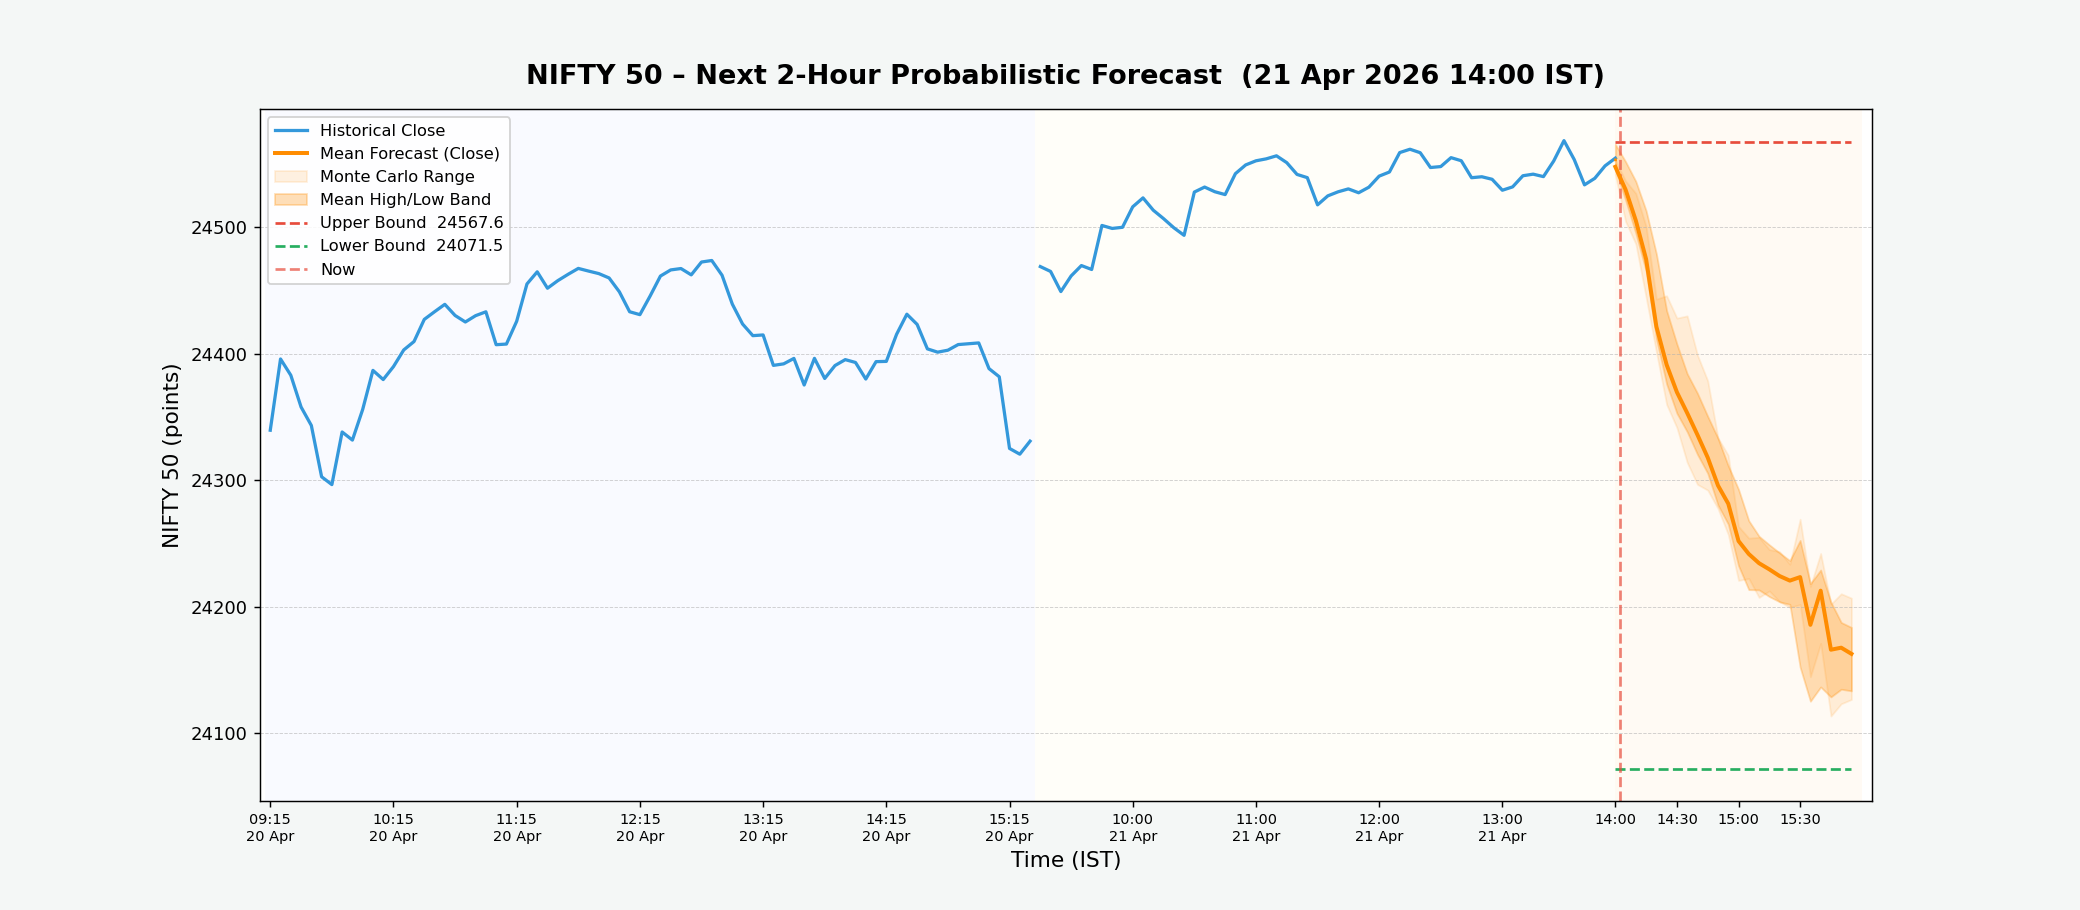
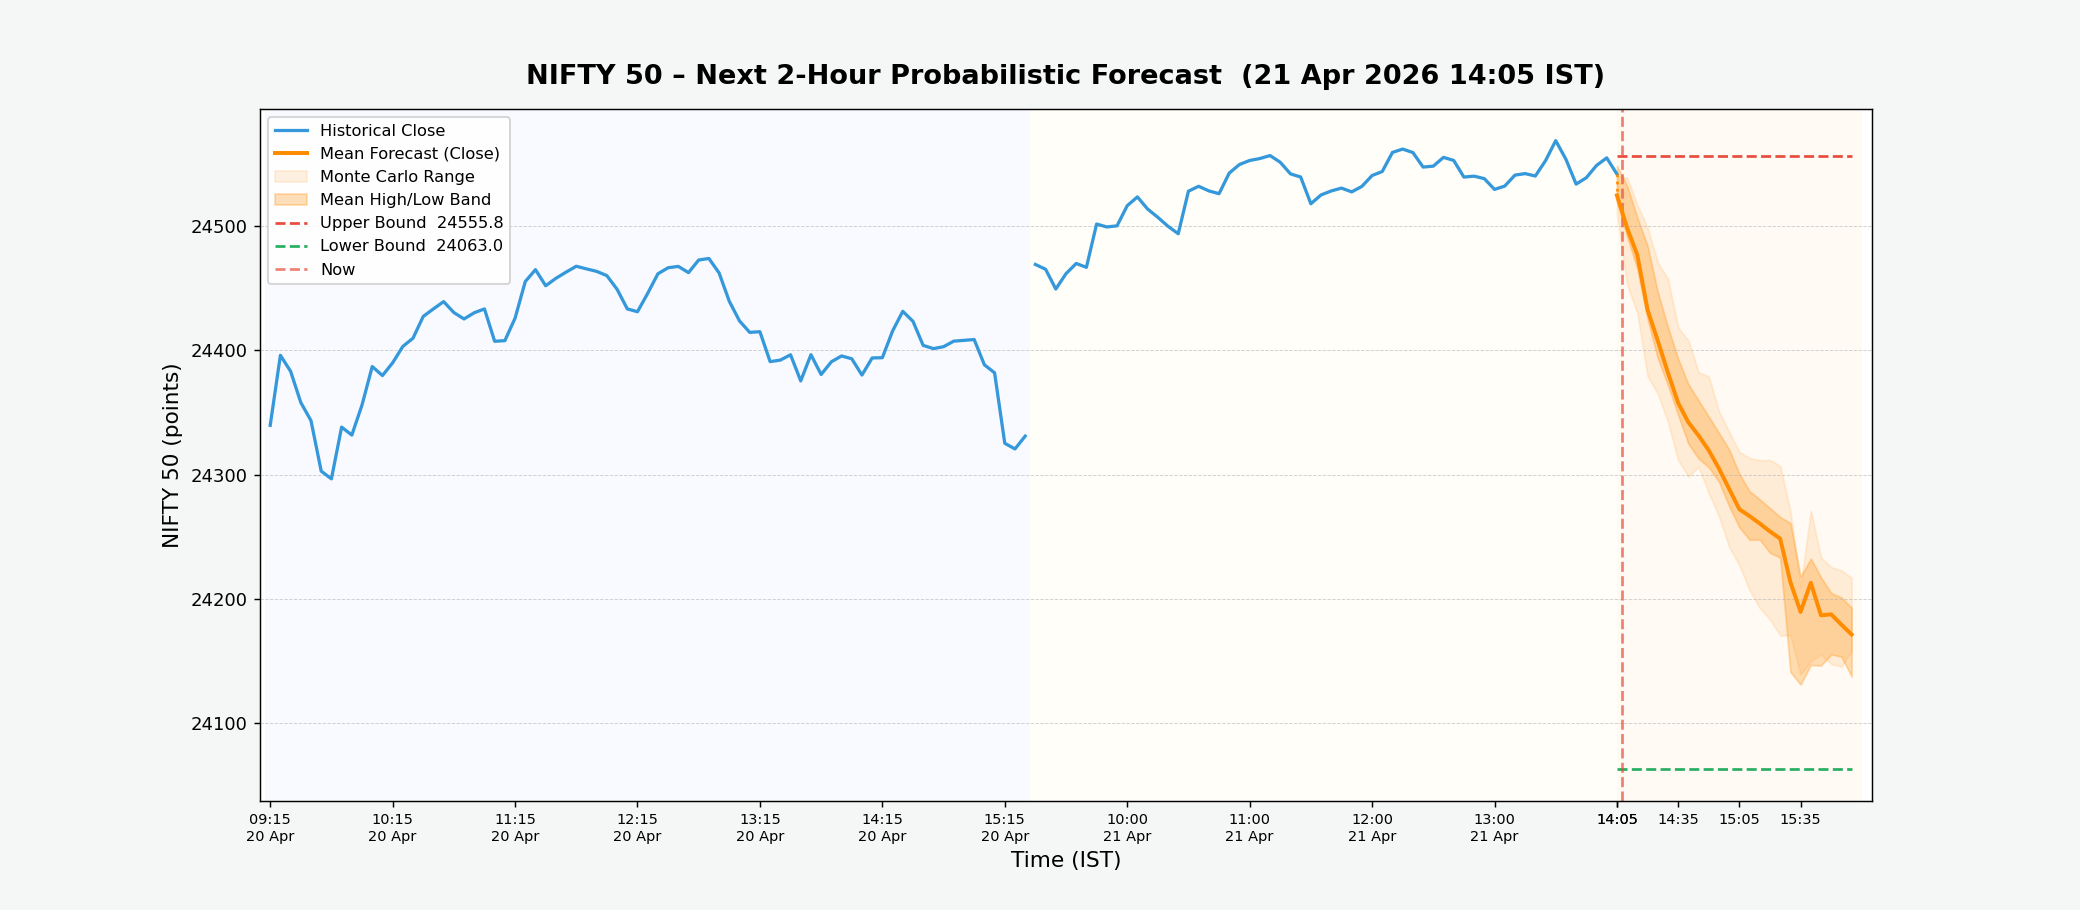
NIFTY forecast update – 2026-04-21 14:05 IST

diff --git a/index.html b/index.html
@@ -24,29 +24,29 @@
 
         <!-- Timestamp bar -->
         <div class="timestamp-bar">
-            <span>Last updated (IST):&nbsp;<strong id="update-time">2026-04-21 14:00:04</strong></span>
+            <span>Last updated (IST):&nbsp;<strong id="update-time">2026-04-21 14:05:04</strong></span>
         </div>
 
         <!-- Metric cards -->
         <div class="metrics-container">
             <div class="metric-card bullish">
                 <div class="metric-label">Bullish Bar Ratio</div>
-                <div class="metric-value" id="upside-prob">20.4%</div>
+                <div class="metric-value" id="upside-prob">19.6%</div>
                 <div class="metric-sub">Next 2h · close &gt; open %</div>
             </div>
             <div class="metric-card upper">
                 <div class="metric-label">Upper Bound</div>
-                <div class="metric-value" id="upper-bound">24567.6</div>
+                <div class="metric-value" id="upper-bound">24555.8</div>
                 <div class="metric-sub">Max predicted high</div>
             </div>
             <div class="metric-card lower">
                 <div class="metric-label">Lower Bound</div>
-                <div class="metric-value" id="lower-bound">24071.5</div>
+                <div class="metric-value" id="lower-bound">24063.0</div>
                 <div class="metric-sub">Min predicted low</div>
             </div>
             <div class="metric-card range">
                 <div class="metric-label">Predicted Range</div>
-                <div class="metric-value" id="pred-range">496.1 pts</div>
+                <div class="metric-value" id="pred-range">492.8 pts</div>
                 <div class="metric-sub">Upper − Lower spread</div>
             </div>
         </div>
